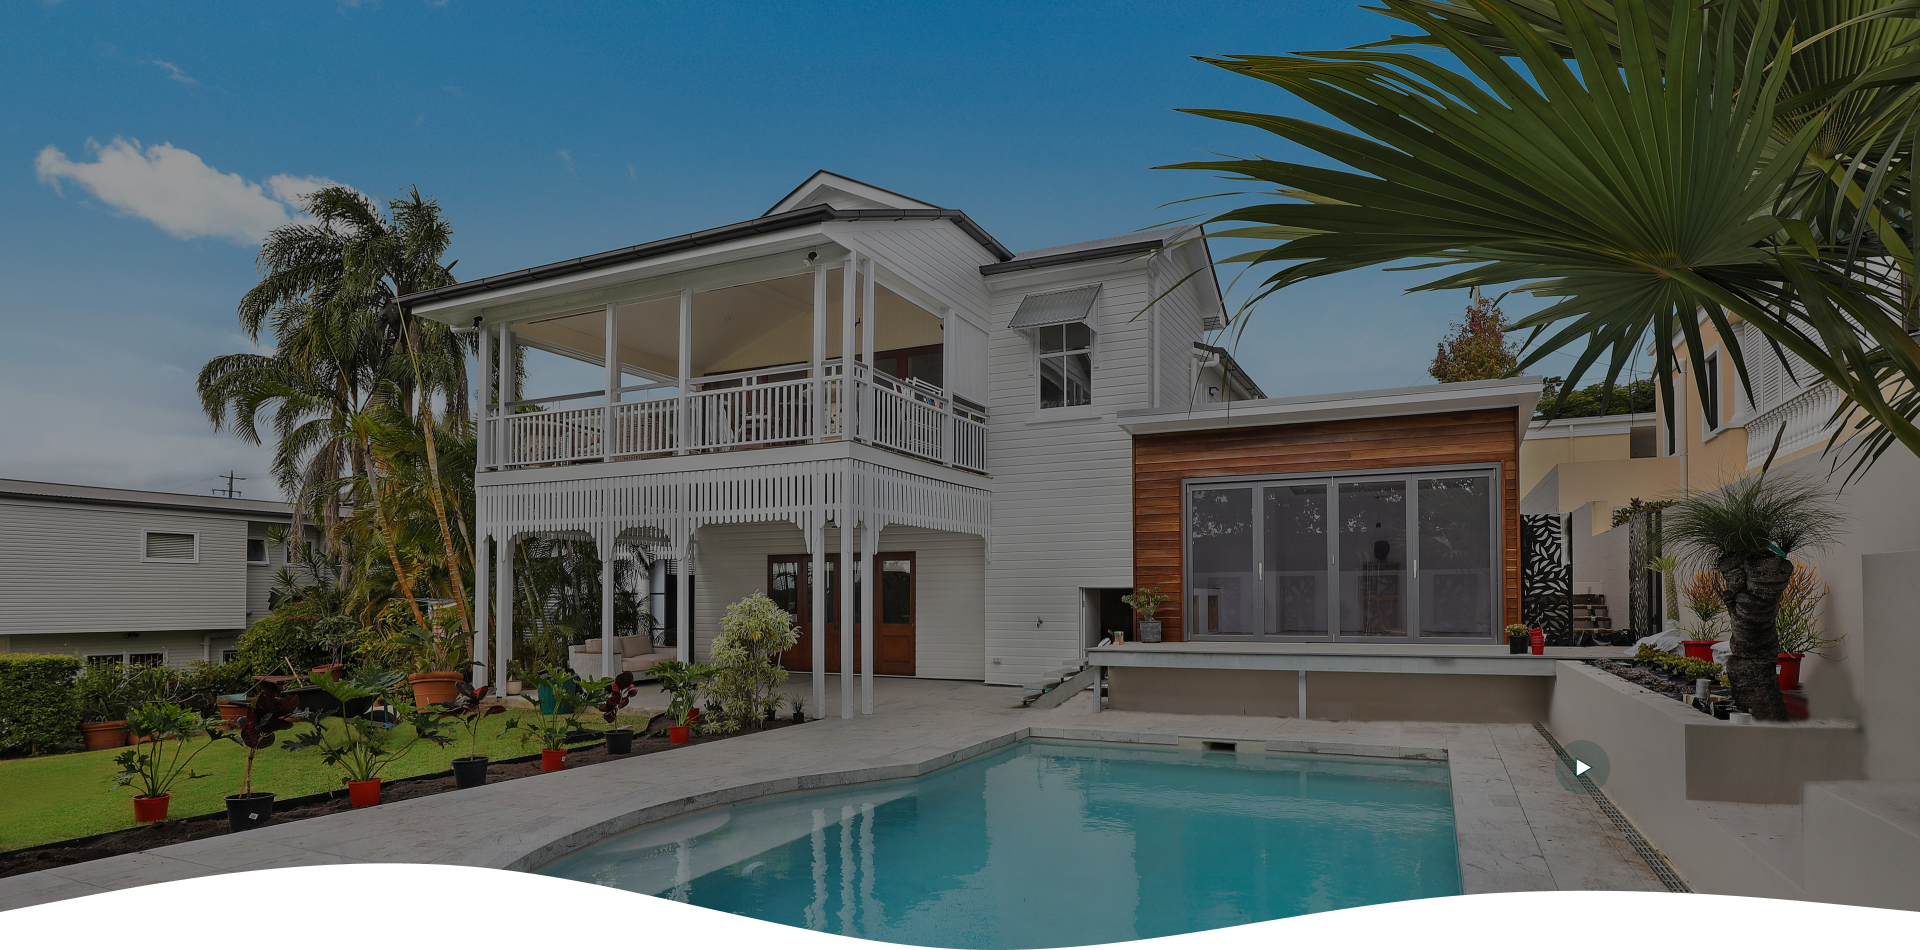
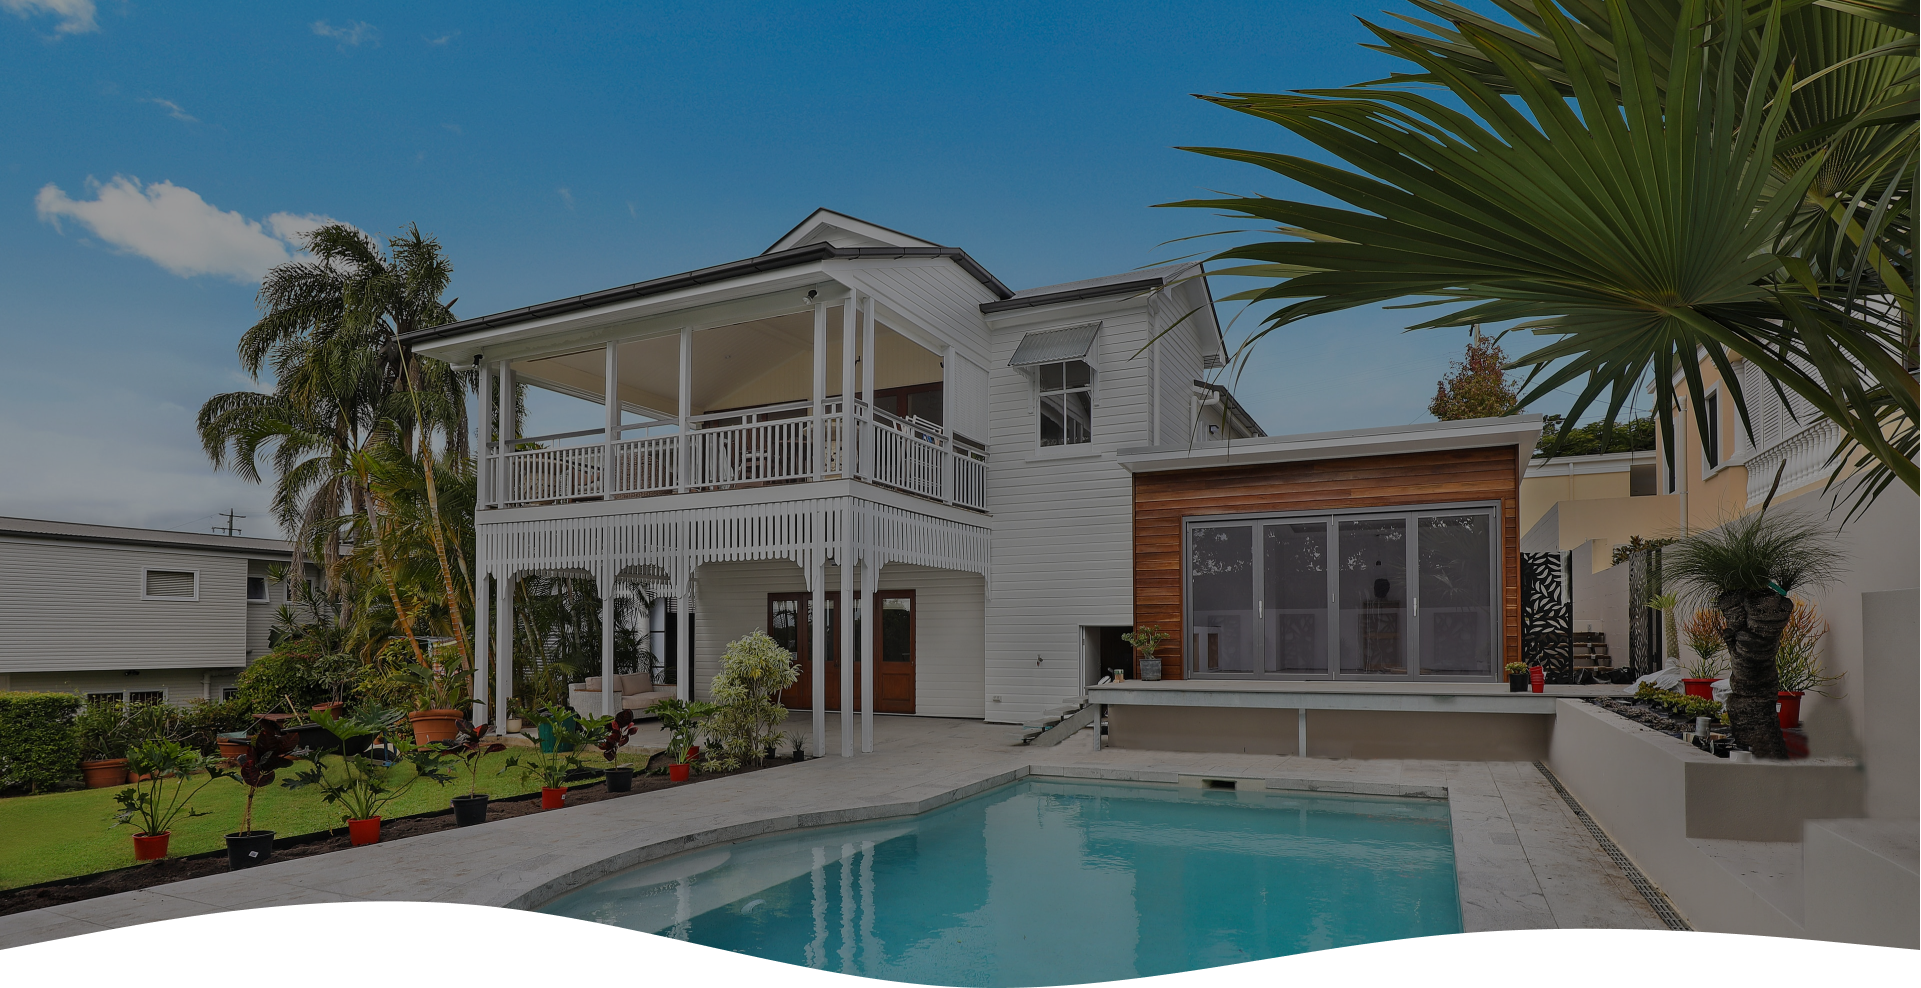
add first

diff --git a/src/components/Head1.jsx b/src/components/Head1.jsx
@@ -1,25 +1,33 @@
 import React from "react";
 import down from "../assets/img/png/dawn_arrow.png";
+import video_icon from "../assets/img/png/click_video.png";
 function Head1() {
   return (
-    <div>
-      <div className="d-flex flex-column justify-content-center align-items-center vh-80">
-        <h1 className="ff_times fw-bold fs_5xl text-white text-center">
-          The modern way to buy and own a second home
-        </h1>
-        <button className="button ff_opensans fw-bold fs-xl mt-5">
-          VIEW LISTINGS
-        </button>
+    <section className="position-relative">
+      <img
+        className="position-absolute right_20"
+        src={video_icon}
+        alt="video_icon"
+      />
+      <div>
+        <div className="d-flex flex-column justify-content-center align-items-center vh-80">
+          <h1 className="ff_times fw-bold fs_5xl text-white text-center">
+            The modern way to buy and own a second home
+          </h1>
+          <button className="button ff_opensans fw-bold fs-xl mt-5">
+            VIEW LISTINGS
+          </button>
+        </div>
+        <div className="d-flex justify-content-center pb-lg-4 pb-5 ">
+          <a
+            className="down_btn d-flex align-items-center justify-content-center mb-5 mb-lg-0"
+            href="#down"
+          >
+            <img src={down} alt="down" />
+          </a>
+        </div>
       </div>
-      <div className="d-flex justify-content-center pb-lg-4 pb-5 ">
-        <a
-          className="down_btn d-flex align-items-center justify-content-center mb-5 mb-lg-0"
-          href="#down"
-        >
-          <img src={down} alt="down" />
-        </a>
-      </div>
-    </div>
+    </section>
   );
 }
 

diff --git a/src/components/Footer.jsx b/src/components/Footer.jsx
@@ -31,7 +31,7 @@ function Footer() {
                   type="text"
                   placeholder="Email"
                 />
-                <button className="ff_opensans fw-semibold fs_sm button_unblock me_1">
+                <button className="ff_opensans fw-semibold fs_sm button_unblock m_1">
                   UNLOCK
                 </button>
               </div>
@@ -210,15 +210,22 @@ function Footer() {
           <div className="d-flex flex-column flex-lg-row align-items-lg-center mt-4">
             <div className="d-flex flex-column flex-sm-row">
               <div>
-                <img src={gogle} alt="gogle" />
+                <a href="#">
+                  {" "}
+                  <img src={gogle} alt="gogle" />
+                </a>
               </div>
               <div className="ps-sm-3 pt-3 pt-sm-0">
-                <img src={app_img} alt="app_img" />
+                <a href="">
+                  <img src={app_img} alt="app_img" />
+                </a>
               </div>
             </div>
             <div className=" d-flex mt-5 mt-lg-0 d-none d-lg-flex">
               <div className="pe-md-5 pe-3 px-lg-5 ps-sm-5  mx-xxl-5 ms-xl-4">
-                <img src={insta} alt="insta" />
+                <a href="">
+                  <img src={insta} alt="insta" />
+                </a>
               </div>
               <div className="px-md-5 px-4 ps-sm-5 mx-xxl-5 ms-xl-4">
                 <a href="">

diff --git a/src/App.css b/src/App.css
@@ -255,8 +255,8 @@ td {
 .mw_340 {
   max-width: 340px;
 }
-.me_1 {
-  margin-right: 2px;
+.m_1 {
+  margin: 2px;
 }
 .text_hover:hover {
   -webkit-text-stroke-width: 0.6px;
@@ -285,9 +285,23 @@ ul {
   top: -15%;
   position: absolute;
 }
+.top_5 {
+  top: -15%;
+}
+.right_20 {
+  right: 17%;
+  top: 77%;
+}
 @media (max-width: 576px) {
   .max_width_xsm {
     max-width: 2000px;
+  }
+  .right_20 {
+    right: 17%;
+    top: 70%;
+  }
+  .mw_50 {
+    max-width: 50px;
   }
   .overflow_scroll_xsm {
     overflow-x: scroll;

diff --git a/src/components/Missout.jsx b/src/components/Missout.jsx
@@ -5,8 +5,8 @@ import leaf2 from "../assets/img/png/leaf2.png";
 function Missout() {
   return (
     <section className="bg_color pt-5 pb-5  position-relative">
-      <div>
-        <img className="position_absolute  d-none d-lg-flex" src={leaf1} alt="leaf1" />
+      <div className="position-absolute  d-none d-lg-flex top_5">
+        <img src={leaf1} alt="leaf1" />
       </div>
       <div className="position_absolute end_0 d-none d-lg-flex">
         {" "}
